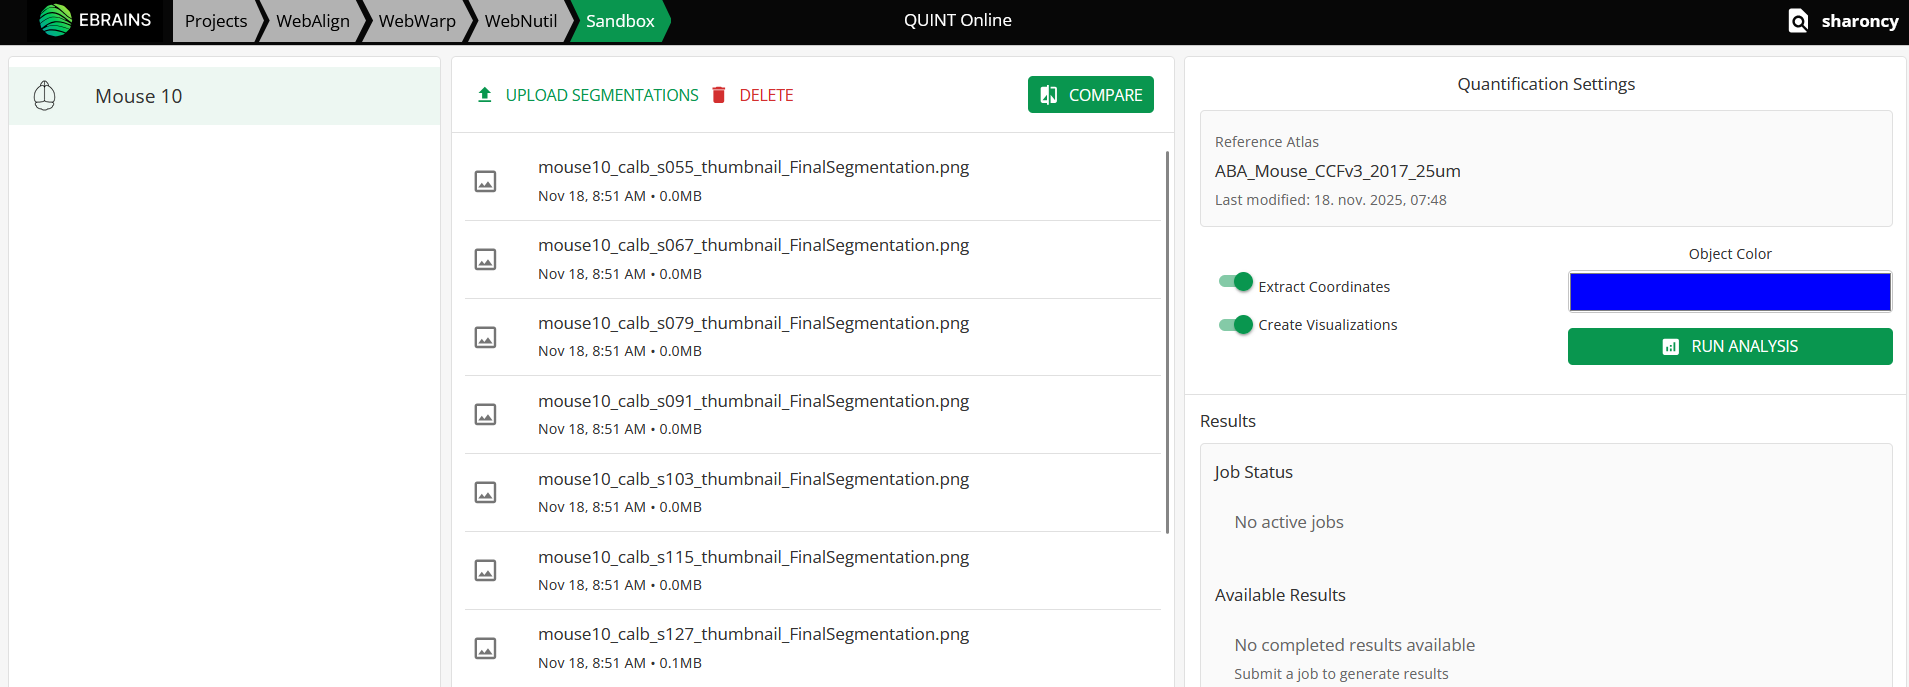
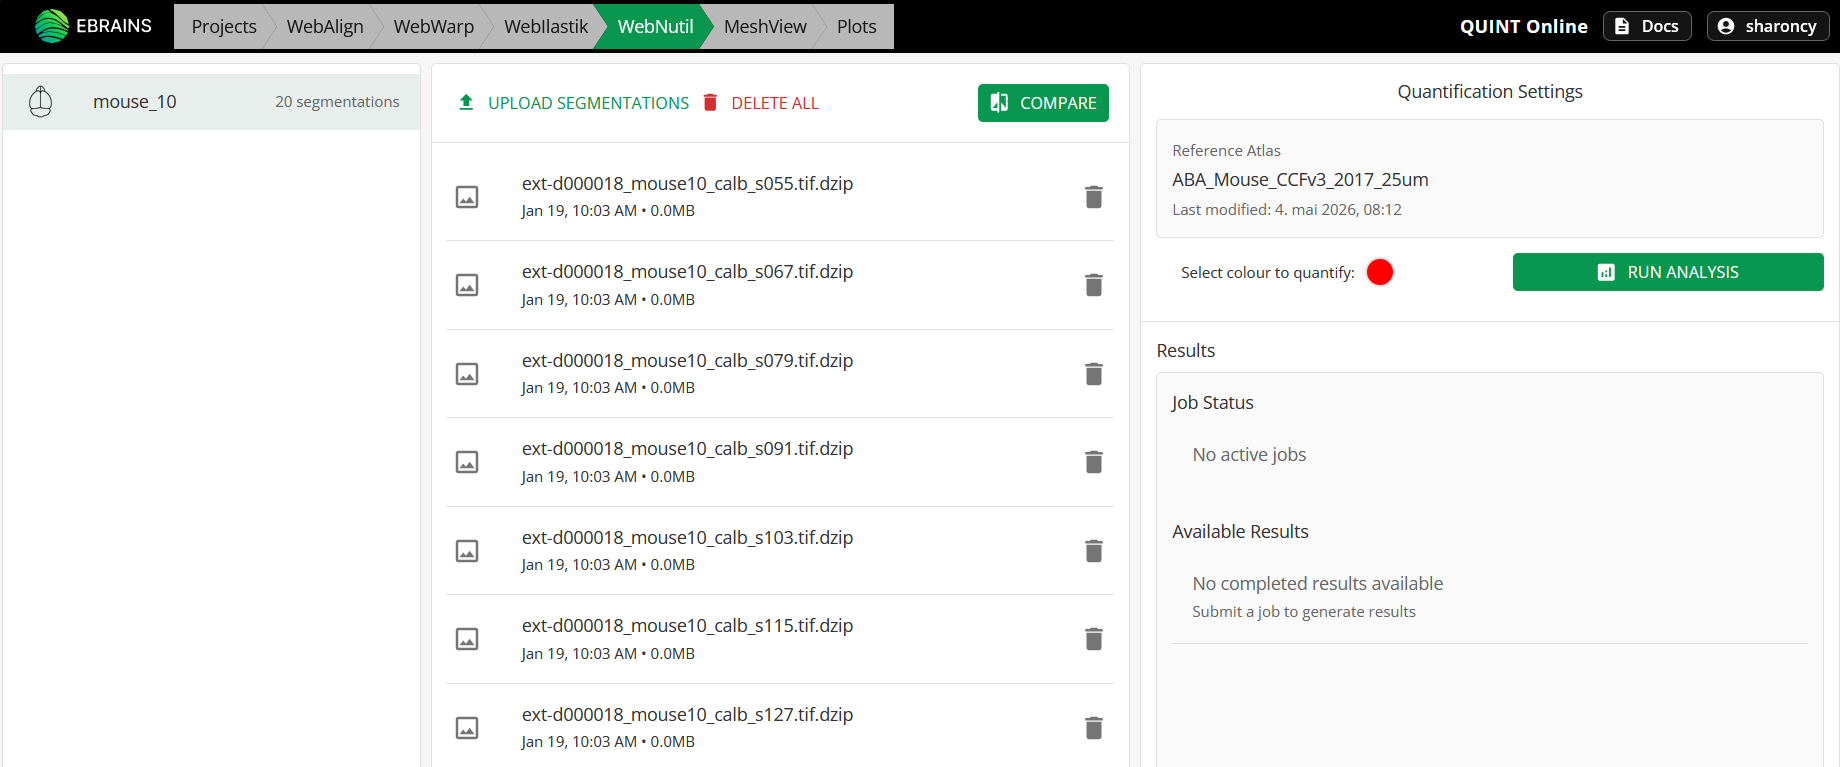
Update Webilastik and WebNutil user documentation

diff --git a/docs/WebIlastik.rst b/docs/WebIlastik.rst
@@ -1,34 +1,29 @@
 **WebIlastik**
 ================
 
-Webilastik is an image classification and segmentation tool that can be used to identify the features in your images to quantify using the QUINT workflow. It works by supervised machine learning. In Webilastik, you interactively train a classifier to recognise your features-of-interest, e.g. labelled cells, receptors, or a pathological marker. The training is performed on a subset of your images (training images). Once the classifier is trained, you apply it to the whole image series, creating segmented images displaying your features-of-interest in a unique colour (RGB), to be used in the WebNutil application. 
+Webilastik is an image classification and segmentation tool that can be used to identify the features in your images to quantify using the QUINT workflow. It works by supervised machine learning. In Webilastik, you interactively train a classifier to recognise your features-of-interest, for example, labelled cells, receptors or a pathological marker. The training is performed on a subset of your images (training images). Once the classifier is trained, you apply it to the whole image series, creating images displaying your features-of-interest in a unique colour (RGB), to be used in the WebNutil application. 
 
 How to train your classifier?
 -------------------------------------------
 
-1. Click "Training Images" and select the images to use to train your classifier. This is typically a subset of the image series with labelling representative of the labelling in the whole series (for example, 5 sections). This will add the training images to a Quick-Switch menu, where you can easily switch between images.
-2. Select an image in the Quick-Switch menu. It will automatically open in the Webilastik viewer. 
-3. Select the image resolution to be used to train the classifier. It is possible to work at the original resolution (100%) or at lower resolutions (downscaled images). However, we recommend selecting the lowest resolution that allows you to differentiate between the labelling-of-interest and the background. See the tip. 
+1. Click "Training Images" and select the images to use to train your classifier. Select a subset of your image series with labelling representative of the labelling in the whole series (for example, 5 sections). This adds the training images to a Quick-Switch menu, where you can easily switch between images.
+2. Select an image in the Quick-Switch menu. It will open in the Webilastik viewer. 
+3. Select the image resolution to be used to train the classifier (for example, 25% of original size). We recommend selecting the lowest resolution that allows you to differentiate the labelling-of-interest from the background. See the tip. 
 
-.. tip:: Classification is more time consuming for larger images and may not produce as good results. This is because higher resolutions may provide more detail than is needed to identify the features-of-interest (for example, cells). This may "confuse" the algorithm leading to artifacts being extracted. A lower resolution typically improves the quality of the classification, as long as it is possible to differentiate the features-of-interest from background and artifacts.  
+.. tip:: Classification is more time consuming for larger images (such as 100% resolution) and may not produce good results. This is because higher resolutions typically provide more detail than is needed to identify the features-of-interest (for example, cells), which may "confuse" the algorithm leading to artifacts being extracted. A lower resolution typically improves the quality of the classification, as long as it is possible to differentiate the features-of-interest from background and artifacts.  
 
-  The optimal resolution is determined by trial and error. As a rough guide, for original resolution images, 50% is typically required for intracellular features, 25% - 12.5% for whole cells, and 25 - 12.5% for larger objects such as protein aggregates. 
+  The optimal resolution is determined by trial and error. As a rough guide, assuming you have images exported directly from the microscope (not previously downscaled), 25% - 12.5% resolution is optimal for labelled cells, 25% - 12.5% for larger objects such as protein aggregates, while 50% may be needed for intracellular features. 
 
-5. In "Features", all the features are included in the machine-learning model by default. While it is possible to limit the features and scales used in the model, this is not recommended in the first instance. 
+5. In "Features", select the features to include in the machine-learning model. All the features are included by default. While it is possible to limit the features and scales used in the model, this is not recommended in the first instance. 
+6. Use "Tools" to train your machine-learning model. Select "Pan" to navigate the image (use the arrow to navigate and the mouse wheel to Zoom in and out). Select "Brush" to annotate your image. Select "Foreground" and "Background" to annotate example pixels of each class. 
+7. Once you've added annotations for each class you're ready to train the classifier. Select "Train classifier" to activate the model. This will automatically display predictions on the image. Continue adding annotations and training the classifier until you are satisfied with the predictions. To inspect the classifier on a new image, use the Quick-Switch menu. It is possible to train the algorithm using multiple images. 
 
-.. image:: images/ImageFeatures_ilastik.PNG
-  :align: center
-  :width: 400
-  
-
-6. Use the "Tools" to train your machine-learning model. Select "pan" to navigate the image (use the arrow to navigate and the mouse wheel to Zoom in and out). Select "Brush" to annotate your image. Select "Foreground" and "Background" and annotate example pixels of each class. 
-7. Once you've added annotations of each class you're ready to train the classifier. Select "Train classifier" to activate the model. This will automatically display predictions on the image. Continue adding annotations and training the classifier until you are satisfied with the predictions. To inspect the classifier on a new image, use the Quick-Switch menu. It is possible to train the algorithm using multiple images. 
 .. image:: images/Training.PNG
   :align: center
-  :width: 
+  :width: 400
 
-8. Once you're happy with the classifier, press "Segment your images".
+8. Once you're happy with the classifier, press "Segment all images".
 
-.. image:: images/ilastik_output.PNG
+.. image:: images/Prediction.PNG
   :align: center
   :width: 400

diff --git a/docs/NutilWeb.rst b/docs/NutilWeb.rst
@@ -1,7 +1,7 @@
 **WebNutil**
 ==============
 
-WebNutil is used to perform the quantification step in the QUINT online workflow.  It combines the result of the atlas-registration steps (using WebAlign and WebWarp) with the result of the feature extraction step (using Webilastik or another software) to generate a series of reports. These include counts of segmented features and area fraction per reference atlas regions, and point clouds representing the features in 3D atlas space. The results can be downloaded as CSV and JSON files or used interactively in the plotting Sandbox and MeshView atlas viewer.
+WebNutil is used to perform the quantification step in the QUINT-online workflow.  It combines the result of the atlas-registration steps (using WebAlign and WebWarp) with the result of the feature extraction step (using Webilastik or another software) to generate a series of reports. These include counts of extracted features and calculates area fraction per reference atlas regions. It also creates point clouds representing the features in 3D atlas space. The results can be downloaded using the "export" button or used interactively in workbench using the plotting Sandbox and MeshView 3D atlas viewer.
 
 **How to open WebNutil?**
 -------------------------
@@ -15,8 +15,10 @@ WebNutil is used to perform the quantification step in the QUINT online workflow
 
 2. If you have used Webilastik to create segmentations, these will be visible in the middle panel. If you have created your own segmentations using an external software, upload these to WebNutil using the "upload segmentations" button.
 
-3. Once the atlas-registration step is complete and segmentations are available for all your sections (either created with webilastik or uploaded manually), you are ready to perform WebNutil analysis. To do this, select the object colour to quantify in your segmentations in the right hand panel and press "Run Analysis". The results will automatically appear in the results panel when the analysis has completed (this may take some time). 
-
-4. Once analysis is complete, download your results and explore the results interactively using the plotting Sandbox and MeshView atlas viewer. 
+3. Once the atlas-registration step is complete and segmentations are available for all your sections (either created with webilastik or uploaded manually), you are ready to perform WebNutil analysis. To do this, select the object colour to quantify in your segmentations in the right hand panel. For segmentations created using Webilastik this is usually "Red" with RGB colour code: 255 0 0. For segmentations created using other software, select the RGB colour code of the objects you wish to quantify.
+4. Press "Run Analysis". The results will automatically appear in the results panel when the analysis has completed (this may take some time). 
+5. Once WebNutil analysis has completed, download your results, and explore the results interactively using the plotting Sandbox and MeshView atlas viewer. 
 
 .. image:: images/Available_results.png
+
+.. image:: images/Plot.PNG
